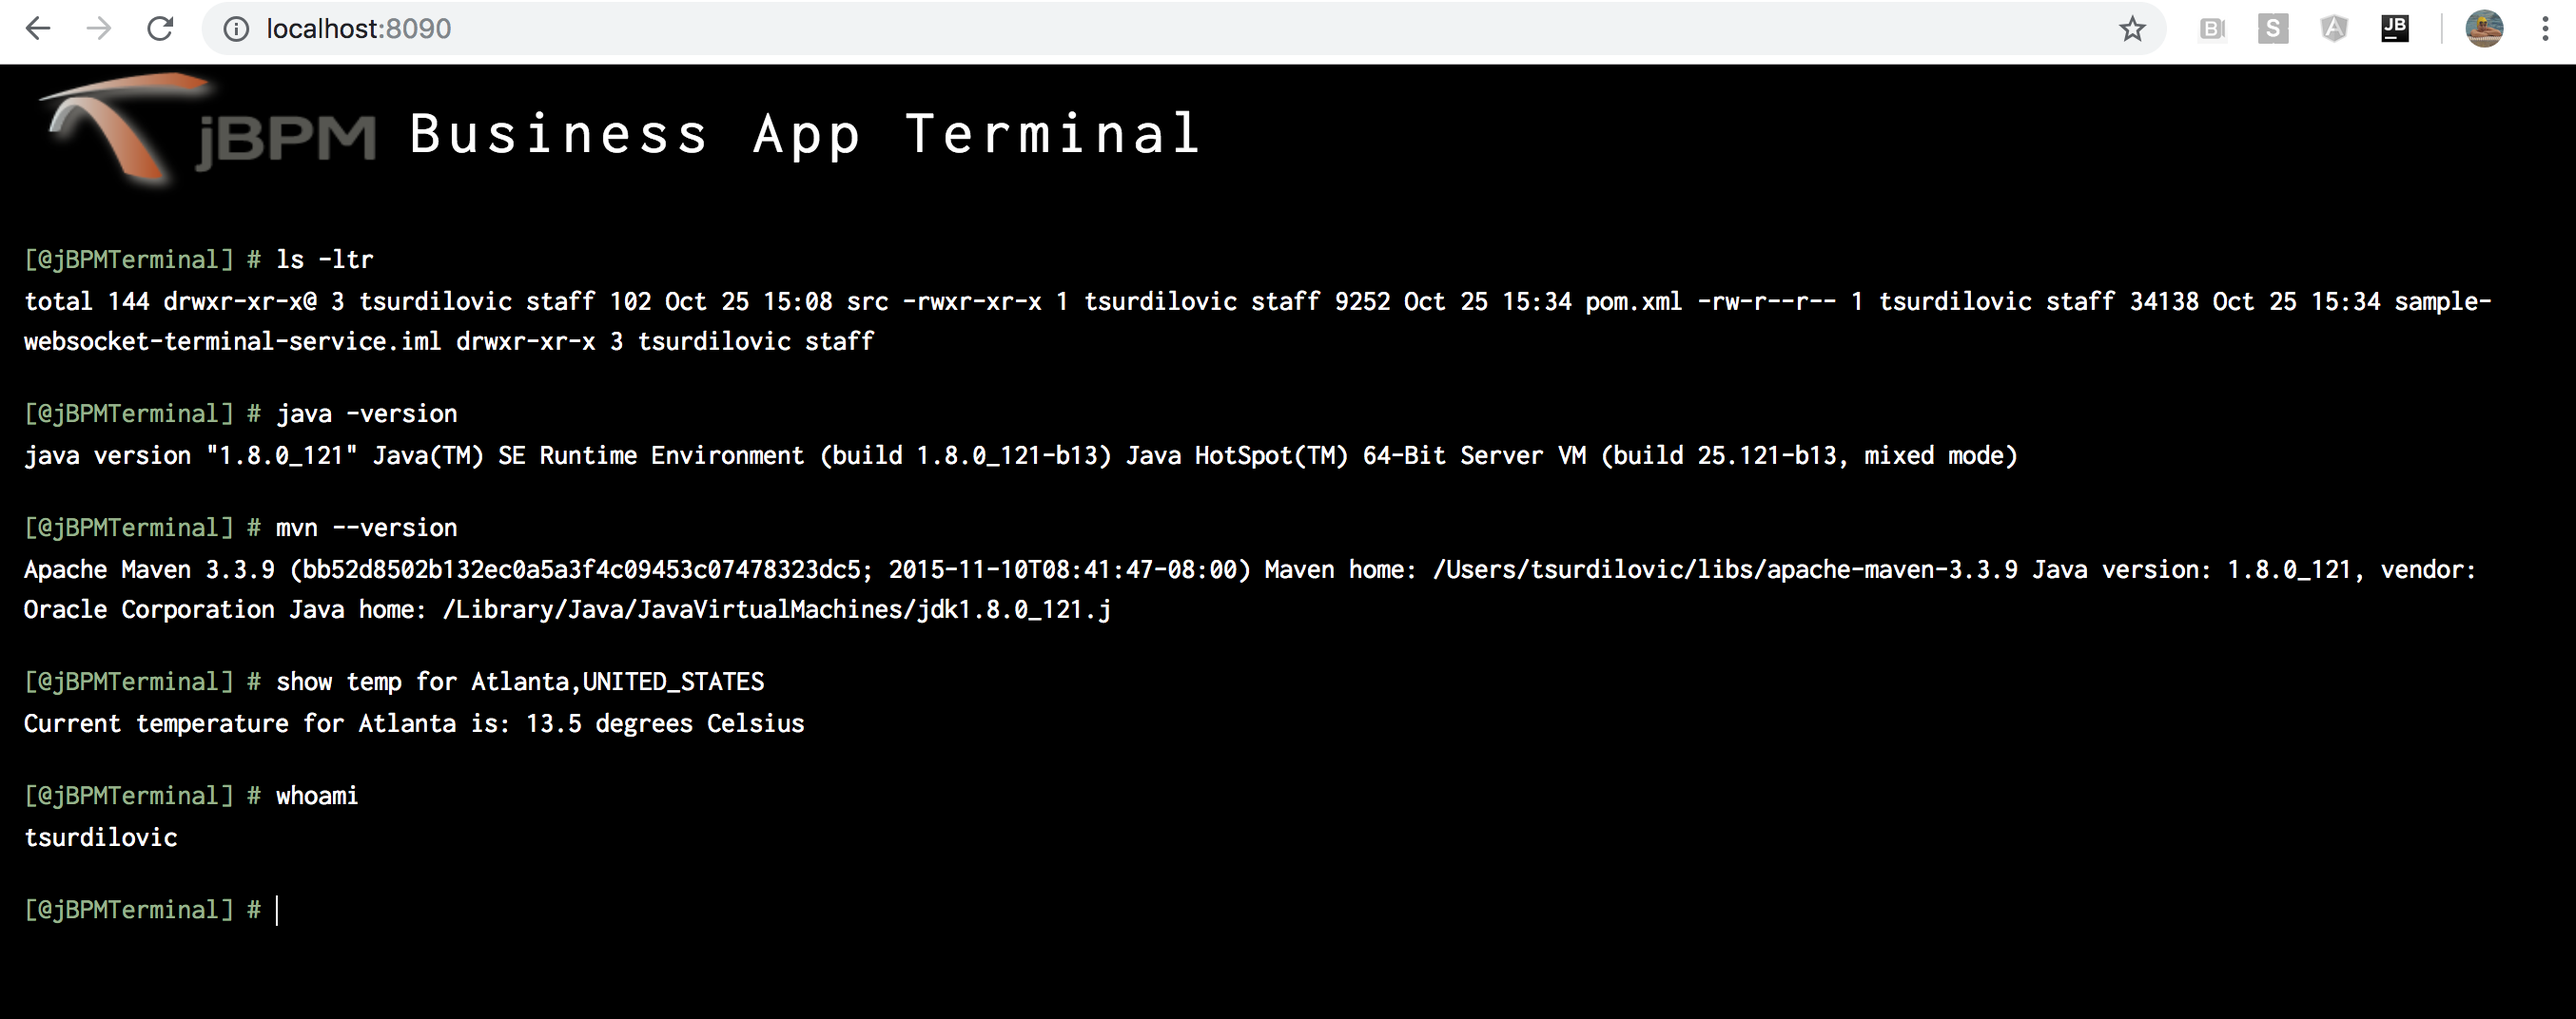
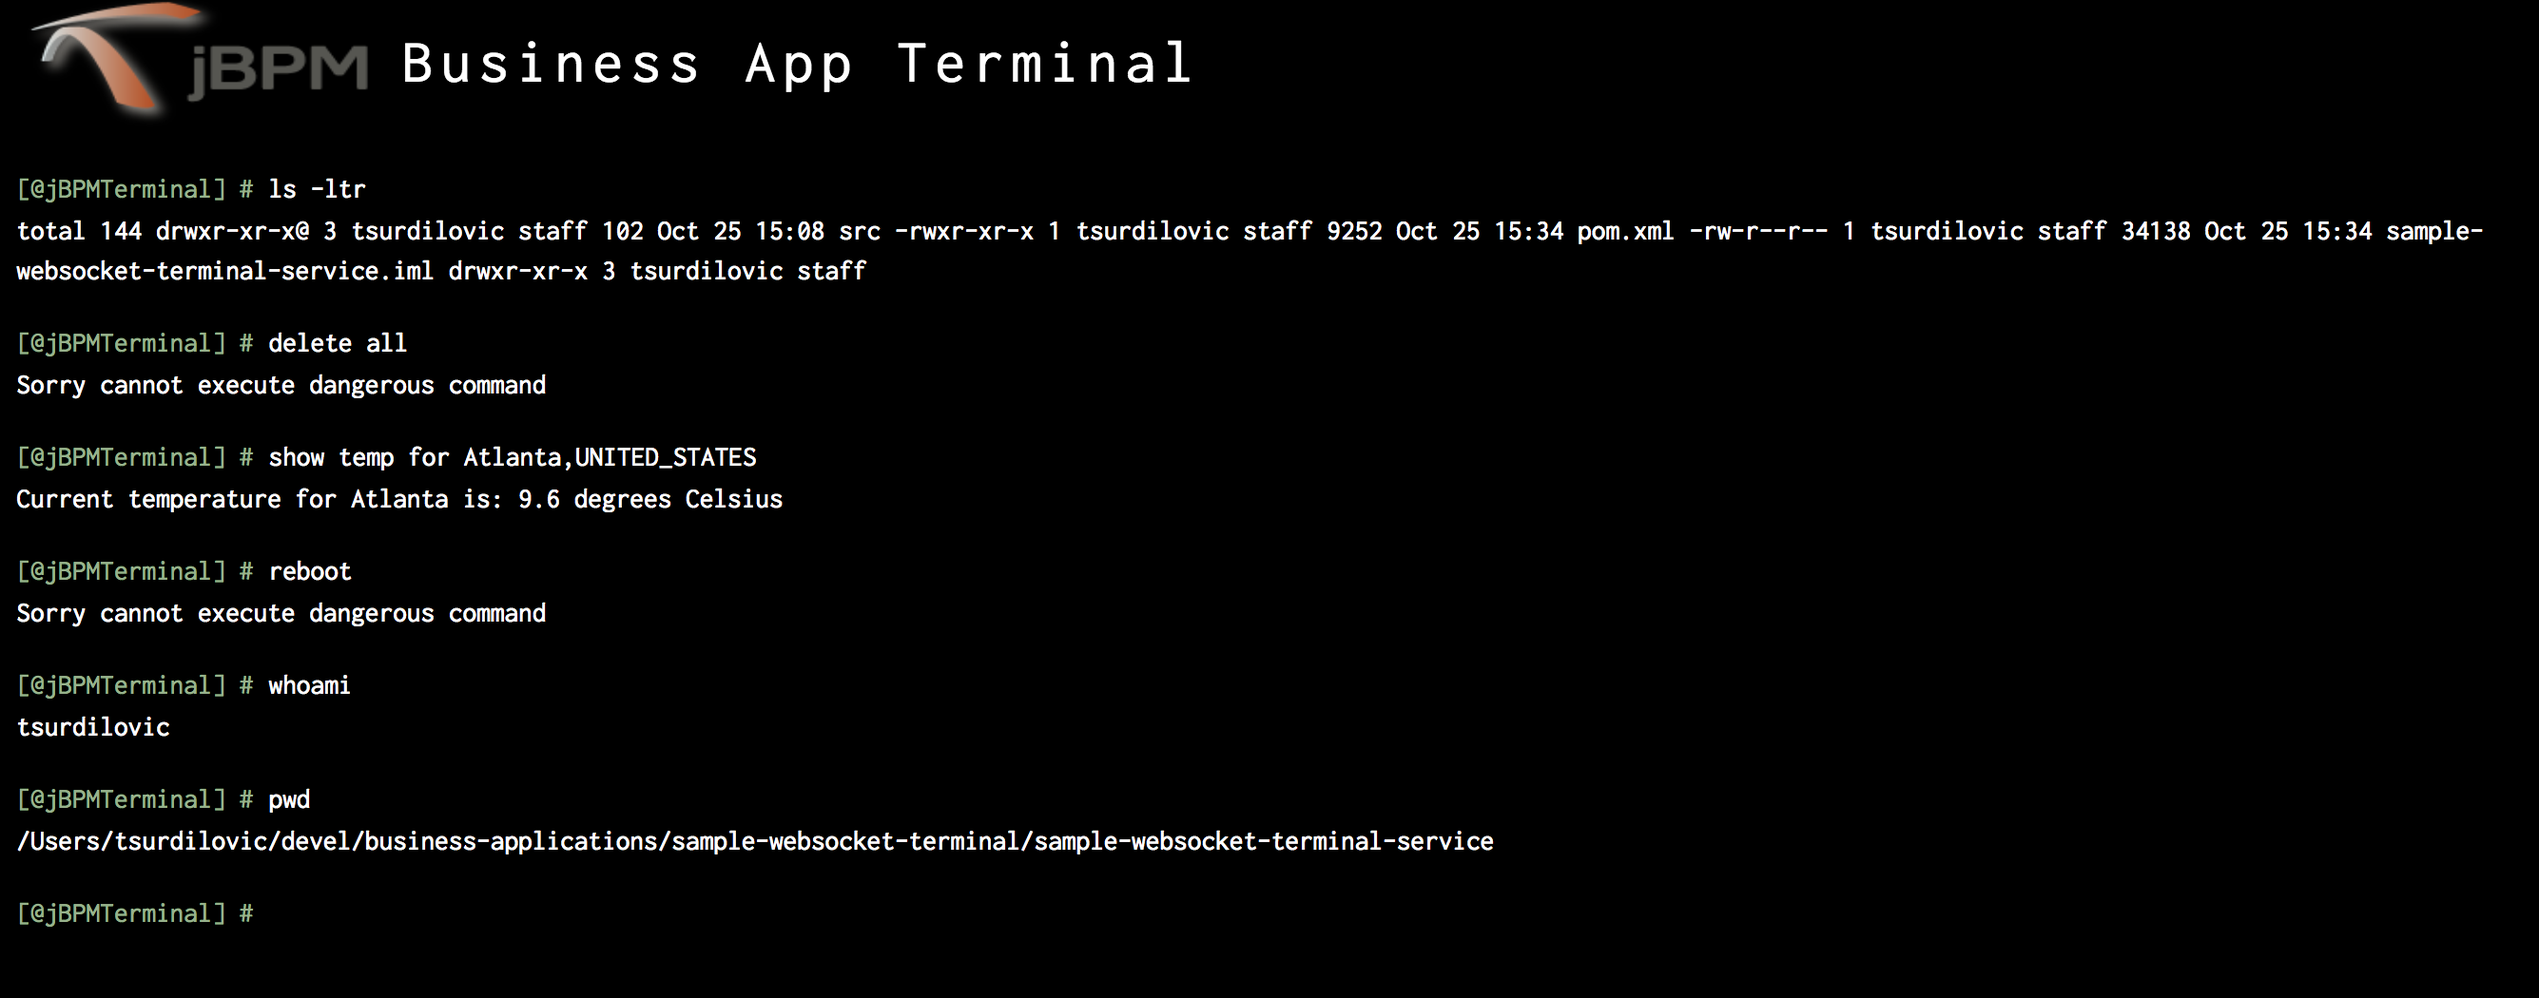
update readme

Changed region(s): [[0.0, 0.0, 1.0, 0.8533], [0.0, 0.8838, 0.1243, 0.9448]]

diff --git a/README.md b/README.md
@@ -6,12 +6,16 @@ to create a process-driven websocket terminal.
 ![Sample of demo](img/demoscreenshot.png?raw=true)
 
 In this demo we create a process driven websocket web terminal. Every command entered in the terminal
-starts our business process which then executes the command. In the demo the business process
-uses the jBPM Exec Workitem, and the jBPM OpenWeatherMap Workitem. The Exec workitem executes
-all commands which do not start with "show temp for", where as the OpenWeatherMap workitem is responsible 
-to execute commands such as "show temp for Atlanta,UNITED_STATES". 
+starts our business process which then executes the command. 
 We use websockets so that the results of the business process are dynamically updated on the terminal 
 web page, without having to refresh the page at all.
+
+Each command is evaluated by business rules which determine if the command entered is "dangerous" by comparing it
+to set of determined dangerous commands such as "delete", "reboot" etc, if the command is a weather command
+which are commands that request weather info such as "show temp for Atlanta,UNITED_STATES", or if this is a 
+safe command to execut such as "ls -ltr", "pwd", or similar.
+
+![Demmo process](img/demoprocess.png?raw=true)
 
 ## Getting Started 
 1. Clone and build the needed kie server thymeleaf dialect project:
